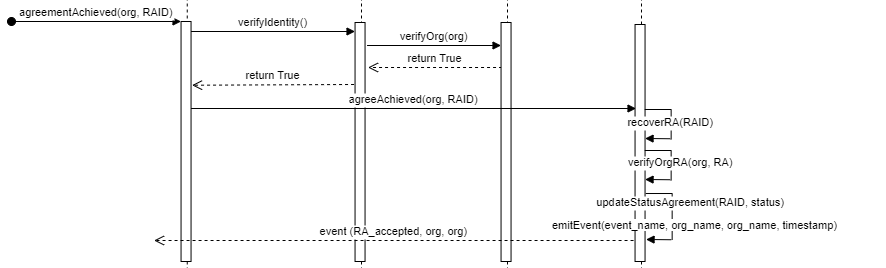
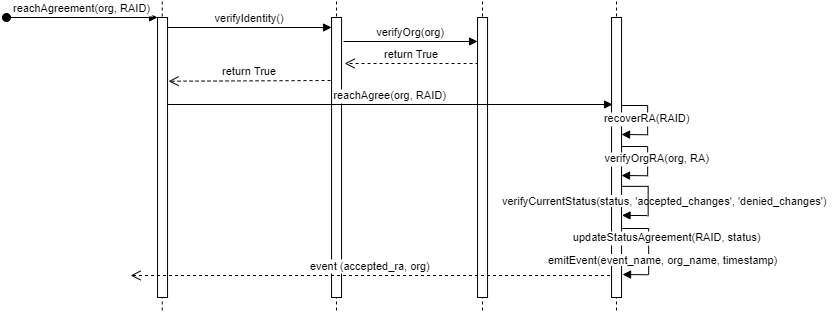
10.08.29

Changed region(s): [[0.0, 0.0, 1.0, 0.9851]]

diff --git a/chaincode/documentation/README.md b/chaincode/documentation/README.md
@@ -149,6 +149,18 @@
 <img src="https://github.com/sfl0r3nz05/NLP-DLT/blob/main/chaincode/documentation/images/denyDeleteArticle1.png">       
 <img src="https://github.com/sfl0r3nz05/NLP-DLT/blob/main/chaincode/documentation/images/denyDeleteArticle2.png">
 
+### Agreement Achieved
+|Method                    | Event                  | State                        |
+|:------------------------:|:----------------------:|:----------------------------:|
+|reachAgreement            |accepted_ra             |acepted_ra                    |
+- The drafting of the Roaming Agreement involves the acceptation of the drafting process. 
+- Identity is verified.
+- The inputs are `json org`and `RAID`.
+- One of the two previous states: `accepted_changes` and `denied_changes` must be enabled.
+- An event is emitted to set the state `accepted_ra`.
+<img src="https://github.com/sfl0r3nz05/NLP-DLT/blob/main/chaincode/documentation/images/agreementAchieved1.png">       
+<img src="https://github.com/sfl0r3nz05/NLP-DLT/blob/main/chaincode/documentation/images/agreementAchieved2.png">
+
 ### State-to-state-transition
 - Actions implies change of state. 
 - The chaincode validates the changes of states.
